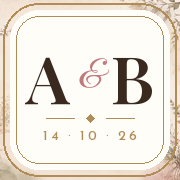
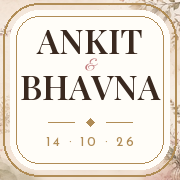
feat(og): show the full names in the preview lockup
Replaces the A & B initials with the couple's complete names - ANKIT YADAV
/ & / BHAVNA YADAV - stacked in Playfair Display caps, surnames included,
and drops the script name line that the monogram had been sitting above.
Reading the same names twice on one card was redundant.

Caps rather than the script face because a WhatsApp preview renders the
card ~400px wide, and Great Vibes' thin strokes break up at that size
where the caps hold a solid silhouette. The lockup is also what carries
the name now, so it gets the widest size the column allows rather than
being fitted down to first names.

caps_metrics() fits the block by measured ink and caps the result at a
fraction of the column width, so a longer name steps down instead of
running into the panel edge. The BAAT PAKKI eyebrow clears the block by
26px - Playfair's A apex rises above cap height and was clipping it.

The apple-touch-icon keeps first names only; at 180px the surnames fall
below legibility.

Published as v3 for the same reason v2 existed: WhatsApp keys its preview
cache on the image URL, so a new name is what actually forces a re-fetch.
v2 images removed so the two cannot drift.

diff --git a/dist/index.html b/dist/index.html
@@ -15,7 +15,7 @@
     <link rel="canonical" href="https://bhavna-yadav-ankit-yadav.invitingyou.top/" />
     <link rel="icon" type="image/x-icon" href="/favicon.ico" />
     <link rel="apple-touch-icon" sizes="180x180" href="https://bhavna-yadav-ankit-yadav.invitingyou.top/apple-touch-icon.png" />
-    <link rel="image_src" href="https://bhavna-yadav-ankit-yadav.invitingyou.top/og-baat-pakki-v2-1200x630.jpg" />
+    <link rel="image_src" href="https://bhavna-yadav-ankit-yadav.invitingyou.top/og-baat-pakki-v3-1200x630.jpg" />
 
     <!-- Open Graph / Facebook / WhatsApp — optimized for WhatsApp link previews -->
     <meta property="og:site_name" content="BAAT PAKKI • ANKIT &amp; BHAVNA" />
@@ -26,15 +26,15 @@
     <meta property="og:description" content="TWO FAMILIES, ONE BOND. JOIN ANKIT &amp; BHAVNA ON TUESDAY, 14TH OCTOBER 2026, 7:00 PM ONWARDS AT ASPIRE HOTEL AND RESORTS, LUDHIANA." />
     <meta property="og:url" content="https://bhavna-yadav-ankit-yadav.invitingyou.top/" />
     <!-- Primary OG image — 1200x630 (1.91:1), the ratio WhatsApp renders at full width -->
-    <meta property="og:image" content="https://bhavna-yadav-ankit-yadav.invitingyou.top/og-baat-pakki-v2-1200x630.jpg" />
-    <meta property="og:image:secure_url" content="https://bhavna-yadav-ankit-yadav.invitingyou.top/og-baat-pakki-v2-1200x630.jpg" />
+    <meta property="og:image" content="https://bhavna-yadav-ankit-yadav.invitingyou.top/og-baat-pakki-v3-1200x630.jpg" />
+    <meta property="og:image:secure_url" content="https://bhavna-yadav-ankit-yadav.invitingyou.top/og-baat-pakki-v3-1200x630.jpg" />
     <meta property="og:image:type" content="image/jpeg" />
     <meta property="og:image:width" content="1200" />
     <meta property="og:image:height" content="630" />
     <meta property="og:image:alt" content="BAAT PAKKI — A &amp; B, ANKIT &amp; BHAVNA, 14 OCTOBER 2026, 7 PM ONWARDS AT ASPIRE HOTEL AND RESORTS, LUDHIANA" />
     <!-- Square second image — several WhatsApp/Android clients prefer a 1:1 thumbnail -->
-    <meta property="og:image" content="https://bhavna-yadav-ankit-yadav.invitingyou.top/og-baat-pakki-v2-800x800.jpg" />
-    <meta property="og:image:secure_url" content="https://bhavna-yadav-ankit-yadav.invitingyou.top/og-baat-pakki-v2-800x800.jpg" />
+    <meta property="og:image" content="https://bhavna-yadav-ankit-yadav.invitingyou.top/og-baat-pakki-v3-800x800.jpg" />
+    <meta property="og:image:secure_url" content="https://bhavna-yadav-ankit-yadav.invitingyou.top/og-baat-pakki-v3-800x800.jpg" />
     <meta property="og:image:type" content="image/jpeg" />
     <meta property="og:image:width" content="800" />
     <meta property="og:image:height" content="800" />
@@ -47,14 +47,14 @@
     <meta name="twitter:creator" content="@invitestory.in" />
     <meta name="twitter:title" content="ANKIT &amp; BHAVNA • 14 OCTOBER 2026 • ASPIRE HOTEL, LUDHIANA" />
     <meta name="twitter:description" content="TWO FAMILIES, ONE BOND. JOIN ANKIT &amp; BHAVNA ON TUESDAY, 14TH OCTOBER 2026, 7:00 PM ONWARDS AT ASPIRE HOTEL AND RESORTS, LUDHIANA." />
-    <meta name="twitter:image" content="https://bhavna-yadav-ankit-yadav.invitingyou.top/og-baat-pakki-v2-1200x630.jpg" />
+    <meta name="twitter:image" content="https://bhavna-yadav-ankit-yadav.invitingyou.top/og-baat-pakki-v3-1200x630.jpg" />
     <meta name="twitter:image:alt" content="BAAT PAKKI — A &amp; B, ANKIT &amp; BHAVNA, 14 OCTOBER 2026" />
     <meta name="twitter:url" content="https://bhavna-yadav-ankit-yadav.invitingyou.top/" />
 
     <!-- Additional WhatsApp-friendly / SEO tags -->
     <meta itemprop="name" content="ANKIT &amp; BHAVNA — SAVE THE DATE" />
     <meta itemprop="description" content="TWO FAMILIES, ONE BOND. JOIN ANKIT &amp; BHAVNA ON 14TH OCTOBER 2026 AT ASPIRE HOTEL AND RESORTS, LUDHIANA." />
-    <meta itemprop="image" content="https://bhavna-yadav-ankit-yadav.invitingyou.top/og-baat-pakki-v2-1200x630.jpg" />
+    <meta itemprop="image" content="https://bhavna-yadav-ankit-yadav.invitingyou.top/og-baat-pakki-v3-1200x630.jpg" />
     <meta itemprop="image:width" content="1200" />
     <meta itemprop="image:height" content="630" />
     <meta property="article:published_time" content="2026-09-26T00:00:00+05:30" />
@@ -98,8 +98,8 @@
           "name": "Ankit Yadav & Bhavna Yadav"
         },
         "image": [
-          "https://bhavna-yadav-ankit-yadav.invitingyou.top/og-baat-pakki-v2-1200x630.jpg",
-          "https://bhavna-yadav-ankit-yadav.invitingyou.top/og-baat-pakki-v2-800x800.jpg",
+          "https://bhavna-yadav-ankit-yadav.invitingyou.top/og-baat-pakki-v3-1200x630.jpg",
+          "https://bhavna-yadav-ankit-yadav.invitingyou.top/og-baat-pakki-v3-800x800.jpg",
           "https://bhavna-yadav-ankit-yadav.invitingyou.top/baat-pakki.jpg"
         ],
         "url": "https://bhavna-yadav-ankit-yadav.invitingyou.top/"

diff --git a/index.html b/index.html
@@ -15,7 +15,7 @@
     <link rel="canonical" href="https://bhavna-yadav-ankit-yadav.invitingyou.top/" />
     <link rel="icon" type="image/x-icon" href="/favicon.ico" />
     <link rel="apple-touch-icon" sizes="180x180" href="https://bhavna-yadav-ankit-yadav.invitingyou.top/apple-touch-icon.png" />
-    <link rel="image_src" href="https://bhavna-yadav-ankit-yadav.invitingyou.top/og-baat-pakki-v2-1200x630.jpg" />
+    <link rel="image_src" href="https://bhavna-yadav-ankit-yadav.invitingyou.top/og-baat-pakki-v3-1200x630.jpg" />
 
     <!-- Open Graph / Facebook / WhatsApp — optimized for WhatsApp link previews -->
     <meta property="og:site_name" content="BAAT PAKKI • ANKIT &amp; BHAVNA" />
@@ -26,15 +26,15 @@
     <meta property="og:description" content="TWO FAMILIES, ONE BOND. JOIN ANKIT &amp; BHAVNA ON TUESDAY, 14TH OCTOBER 2026, 7:00 PM ONWARDS AT ASPIRE HOTEL AND RESORTS, LUDHIANA." />
     <meta property="og:url" content="https://bhavna-yadav-ankit-yadav.invitingyou.top/" />
     <!-- Primary OG image — 1200x630 (1.91:1), the ratio WhatsApp renders at full width -->
-    <meta property="og:image" content="https://bhavna-yadav-ankit-yadav.invitingyou.top/og-baat-pakki-v2-1200x630.jpg" />
-    <meta property="og:image:secure_url" content="https://bhavna-yadav-ankit-yadav.invitingyou.top/og-baat-pakki-v2-1200x630.jpg" />
+    <meta property="og:image" content="https://bhavna-yadav-ankit-yadav.invitingyou.top/og-baat-pakki-v3-1200x630.jpg" />
+    <meta property="og:image:secure_url" content="https://bhavna-yadav-ankit-yadav.invitingyou.top/og-baat-pakki-v3-1200x630.jpg" />
     <meta property="og:image:type" content="image/jpeg" />
     <meta property="og:image:width" content="1200" />
     <meta property="og:image:height" content="630" />
     <meta property="og:image:alt" content="BAAT PAKKI — A &amp; B, ANKIT &amp; BHAVNA, 14 OCTOBER 2026, 7 PM ONWARDS AT ASPIRE HOTEL AND RESORTS, LUDHIANA" />
     <!-- Square second image — several WhatsApp/Android clients prefer a 1:1 thumbnail -->
-    <meta property="og:image" content="https://bhavna-yadav-ankit-yadav.invitingyou.top/og-baat-pakki-v2-800x800.jpg" />
-    <meta property="og:image:secure_url" content="https://bhavna-yadav-ankit-yadav.invitingyou.top/og-baat-pakki-v2-800x800.jpg" />
+    <meta property="og:image" content="https://bhavna-yadav-ankit-yadav.invitingyou.top/og-baat-pakki-v3-800x800.jpg" />
+    <meta property="og:image:secure_url" content="https://bhavna-yadav-ankit-yadav.invitingyou.top/og-baat-pakki-v3-800x800.jpg" />
     <meta property="og:image:type" content="image/jpeg" />
     <meta property="og:image:width" content="800" />
     <meta property="og:image:height" content="800" />
@@ -47,14 +47,14 @@
     <meta name="twitter:creator" content="@invitestory.in" />
     <meta name="twitter:title" content="ANKIT &amp; BHAVNA • 14 OCTOBER 2026 • ASPIRE HOTEL, LUDHIANA" />
     <meta name="twitter:description" content="TWO FAMILIES, ONE BOND. JOIN ANKIT &amp; BHAVNA ON TUESDAY, 14TH OCTOBER 2026, 7:00 PM ONWARDS AT ASPIRE HOTEL AND RESORTS, LUDHIANA." />
-    <meta name="twitter:image" content="https://bhavna-yadav-ankit-yadav.invitingyou.top/og-baat-pakki-v2-1200x630.jpg" />
+    <meta name="twitter:image" content="https://bhavna-yadav-ankit-yadav.invitingyou.top/og-baat-pakki-v3-1200x630.jpg" />
     <meta name="twitter:image:alt" content="BAAT PAKKI — A &amp; B, ANKIT &amp; BHAVNA, 14 OCTOBER 2026" />
     <meta name="twitter:url" content="https://bhavna-yadav-ankit-yadav.invitingyou.top/" />
 
     <!-- Additional WhatsApp-friendly / SEO tags -->
     <meta itemprop="name" content="ANKIT &amp; BHAVNA — SAVE THE DATE" />
     <meta itemprop="description" content="TWO FAMILIES, ONE BOND. JOIN ANKIT &amp; BHAVNA ON 14TH OCTOBER 2026 AT ASPIRE HOTEL AND RESORTS, LUDHIANA." />
-    <meta itemprop="image" content="https://bhavna-yadav-ankit-yadav.invitingyou.top/og-baat-pakki-v2-1200x630.jpg" />
+    <meta itemprop="image" content="https://bhavna-yadav-ankit-yadav.invitingyou.top/og-baat-pakki-v3-1200x630.jpg" />
     <meta itemprop="image:width" content="1200" />
     <meta itemprop="image:height" content="630" />
     <meta property="article:published_time" content="2026-09-26T00:00:00+05:30" />
@@ -98,8 +98,8 @@
           "name": "Ankit Yadav & Bhavna Yadav"
         },
         "image": [
-          "https://bhavna-yadav-ankit-yadav.invitingyou.top/og-baat-pakki-v2-1200x630.jpg",
-          "https://bhavna-yadav-ankit-yadav.invitingyou.top/og-baat-pakki-v2-800x800.jpg",
+          "https://bhavna-yadav-ankit-yadav.invitingyou.top/og-baat-pakki-v3-1200x630.jpg",
+          "https://bhavna-yadav-ankit-yadav.invitingyou.top/og-baat-pakki-v3-800x800.jpg",
           "https://bhavna-yadav-ankit-yadav.invitingyou.top/baat-pakki.jpg"
         ],
         "url": "https://bhavna-yadav-ankit-yadav.invitingyou.top/"

diff --git a/scripts/generate-og.py b/scripts/generate-og.py
@@ -59,7 +59,7 @@ _cache = {}
 # Bump this whenever the artwork changes. WhatsApp caches a preview against the
 # image URL, so serving new pixels from an unchanged filename leaves every
 # existing chat bubble showing the old card. A new name forces a re-fetch.
-VERSION = "v2"
+VERSION = "v3"
 
 
 # ── config + fonts ─────────────────────────────────────────────────────────
@@ -76,11 +76,12 @@ def read_config():
     venue_city = re.search(r"city:\s*\"([^\"]+)\"", src)
     groom, bride = field("groom"), field("bride")
     return {
-        # surnames are dropped here on purpose: a WhatsApp preview renders this
-        # image ~400px wide, and two long names shrink the script to the point
-        # where it stops reading. Surnames live in <title>/og:title instead.
+        # First names only: they are what the card shows in the script line.
         "groom": groom.split()[0],
         "bride": bride.split()[0],
+        # Full names, surnames included, for the capitalised lockup.
+        "groom_full": groom.upper(),
+        "bride_full": bride.upper(),
         "date": field("dateLabel"),  # 14.10.26
         "day": field("dayLine"),
         "time": field("timeLine"),
@@ -337,6 +338,54 @@ def monogram_height(max_w, max_size, initials, gap_ratio=0.10, amp_ratio=0.62):
     return bot - top
 
 
+def caps_metrics(max_w, max_size, left, right, amp_ratio=0.52):
+    """Fit a stacked `LEFT` / `&` / `RIGHT` lockup in Playfair Display caps.
+
+    Caps rather than the script face: at WhatsApp's preview width the script's
+    thin strokes break up, whereas caps hold a solid silhouette. The whole
+    point of the lockup is the full name, so it gets the widest size the
+    column allows rather than being fitted down to first names.
+    """
+    for size in range(max_size, 20, -2):
+        fa = font(F_DISPLAY, size, "SemiBold")
+        if max(fa.getlength(left), fa.getlength(right)) <= max_w:
+            break
+        if size <= 34:  # hard floor so a long name never fills the card edge to edge
+            break
+    fb = font(F_SCRIPT, int(size * amp_ratio))
+    fa = font(F_DISPLAY, size, "SemiBold")
+    ta, ba = ink_box(fa, left)
+    tb, bb = ink_box(fa, right)
+    tc, bc = ink_box(fb, "&")
+    return fa, fb, size, (ta, ba), (tc, bc), (tb, bb)
+
+
+def caps_height(max_w, max_size, left, right, amp_ratio=0.52):
+    """Total ink height of the three-line lockup, including the inter-line gaps."""
+    fa, fb, size, (ta, ba), (tc, bc), (tb, bb) = caps_metrics(
+        max_w, max_size, left, right, amp_ratio
+    )
+    gap = size * 0.10
+    return (ba - ta) + gap + (bc - tc) + gap + (bb - tb)
+
+
+def caps_lockup(d, cx, y, max_w, max_size, left, right, amp_ratio=0.52):
+    """Draw the stacked lockup so the whole block's ink is centred on `y`."""
+    fa, fb, size, (ta, ba), (tc, bc), (tb, bb) = caps_metrics(
+        max_w, max_size, left, right, amp_ratio
+    )
+    gap = size * 0.10
+    total = (ba - ta) + gap + (bc - tc) + gap + (bb - tb)
+    top = y - total / 2
+
+    d.text((cx, top + (ta + ba) / 2), left, font=fa, fill=INK, anchor="mm")
+    mid = top + (ba - ta) + gap + (tc + bc) / 2
+    d.text((cx, mid), "&", font=fb, fill=ROSE, anchor="mm")
+    last = top + (ba - ta) + gap + (bc - tc) + gap + (tb + bb) / 2
+    d.text((cx, last), right, font=fa, fill=INK, anchor="mm")
+    return size
+
+
 def save_jpeg(img, path, quality=88):
     img.convert("RGB").save(
         path, "JPEG", quality=quality, optimize=True, progressive=True, subsampling=1
@@ -354,17 +403,16 @@ def build_wide(cfg, out):
     d = ImageDraw.Draw(base)
     cx = (box[0] + box[2]) / 2
     inner = (box[2] - box[0]) - 118
-    mono_max, names_max = 146, 112
+    g, b = cfg["groom_full"], cfg["bride_full"]
+    name_max = min(92, int(inner * 0.108))
 
     stack(box, [
         (26, 8, lambda y: ornament(d, cx, y, GOLD_SOFT)),
-        (24, 10, lambda y: draw_tracked(
+        (24, 26, lambda y: draw_tracked(
             d, cx, y, "BAAT PAKKI", font(F_SANS, 16, "Medium"), GOLD, 6.5)),
-        (lambda: monogram_height(inner, mono_max, cfg["initials"]), 14,
-         lambda y: monogram(d, cx, y, inner, mono_max, cfg["initials"])),
+        (lambda: caps_height(inner, name_max, g, b), 16,
+         lambda y: caps_lockup(d, cx, y, inner, name_max, g, b)),
         (16, 18, lambda y: rule(d, cx, y, 236, GOLD_RULE)),
-        (lambda: names_height(inner, names_max, cfg), 18,
-         lambda y: names_row(d, cx, y, inner, names_max, cfg)),
         (56, 11, lambda y: draw_tracked(
             d, cx, y, "14 · 10 · 2026",
             font(F_DISPLAY, 50, "SemiBold"), INK, 4)),
@@ -390,17 +438,16 @@ def build_square(cfg, out):
     d = ImageDraw.Draw(base)
     cx = (box[0] + box[2]) / 2
     inner = (box[2] - box[0]) - 104
-    mono_max, names_max = 168, 118
+    g, b = cfg["groom_full"], cfg["bride_full"]
+    name_max = min(104, int(inner * 0.118))
 
     stack(box, [
         (30, 12, lambda y: ornament(d, cx, y, GOLD_SOFT)),
-        (26, 12, lambda y: draw_tracked(
+        (26, 26, lambda y: draw_tracked(
             d, cx, y, "BAAT PAKKI", font(F_SANS, 16, "Medium"), GOLD, 6.5)),
-        (lambda: monogram_height(inner, mono_max, cfg["initials"]), 20,
-         lambda y: monogram(d, cx, y, inner, mono_max, cfg["initials"])),
-        (18, 20, lambda y: rule(d, cx, y, 250, GOLD_RULE)),
-        (lambda: names_height(inner, names_max, cfg), 22,
-         lambda y: names_row(d, cx, y, inner, names_max, cfg)),
+        (lambda: caps_height(inner, name_max, g, b), 22,
+         lambda y: caps_lockup(d, cx, y, inner, name_max, g, b)),
+        (18, 22, lambda y: rule(d, cx, y, 250, GOLD_RULE)),
         (58, 14, lambda y: draw_tracked(
             d, cx, y, "14 · 10 · 2026",
             font(F_DISPLAY, 52, "SemiBold"), INK, 4)),
@@ -433,10 +480,12 @@ def build_icon(cfg, out):
         (16, 16, s - 17, s - 17), radius=23, outline=(GOLD[0], GOLD[1], GOLD[2], 70)
     )
 
+    # First names only here: at 180px the surnames drop below legibility, and
+    # this is the one place the lockup must stay readable at ~40px.
     cx = s / 2
-    monogram(d, cx, 80, 132, 74, cfg["initials"], gap_ratio=0.12)
-    rule(d, cx, 118, 88, GOLD_RULE)
-    draw_tracked(d, cx, 136, "14 \u00b7 10 \u00b7 26", font(F_SANS, 14, "Medium"), GOLD, 2.6)
+    caps_lockup(d, cx, 74, 136, 40, cfg["groom"].upper(), cfg["bride"].upper())
+    rule(d, cx, 122, 84, GOLD_RULE)
+    draw_tracked(d, cx, 143, "14 · 10 · 26", font(F_SANS, 13, "Medium"), GOLD, 2.4)
 
     base.convert("RGB").save(out, "PNG", optimize=True)
     print("wrote %s (%d KB)" % (os.path.basename(out), os.path.getsize(out) // 1024))
